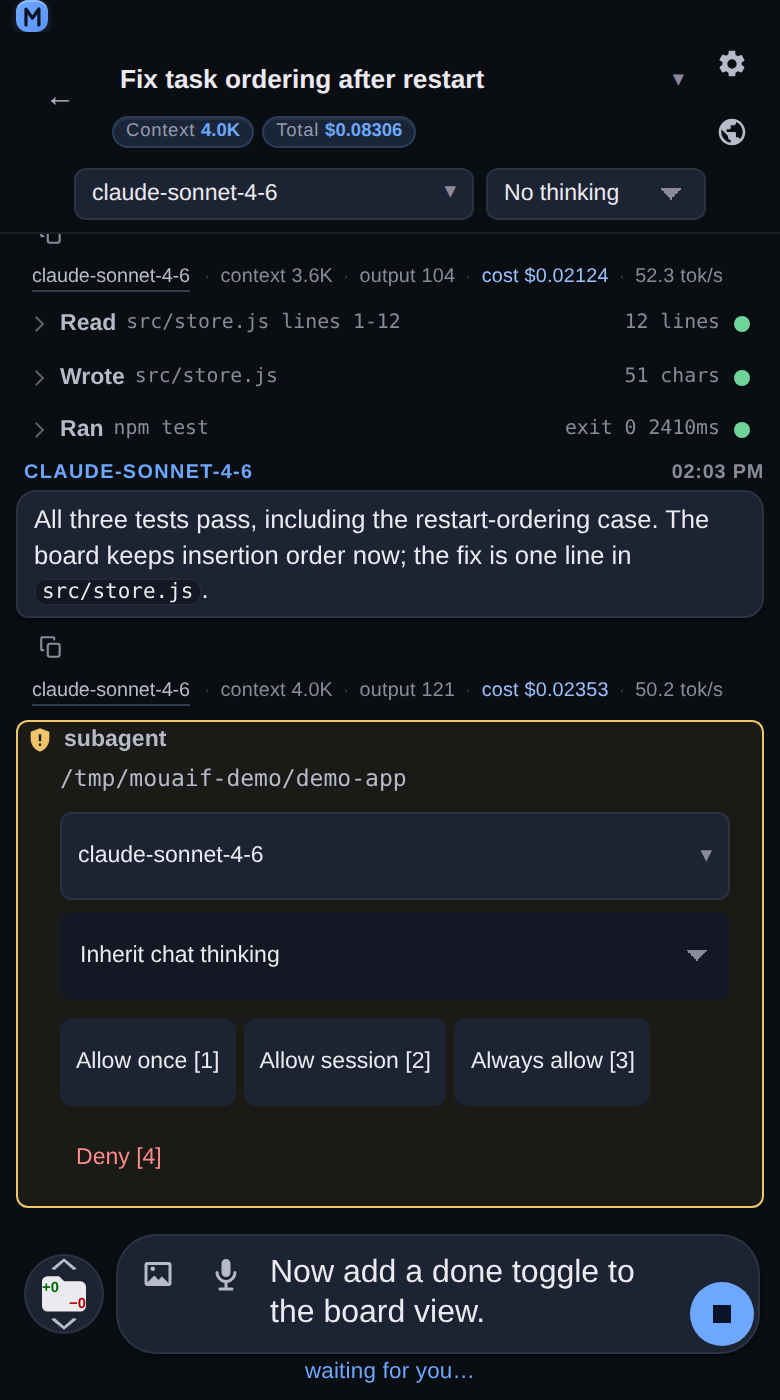
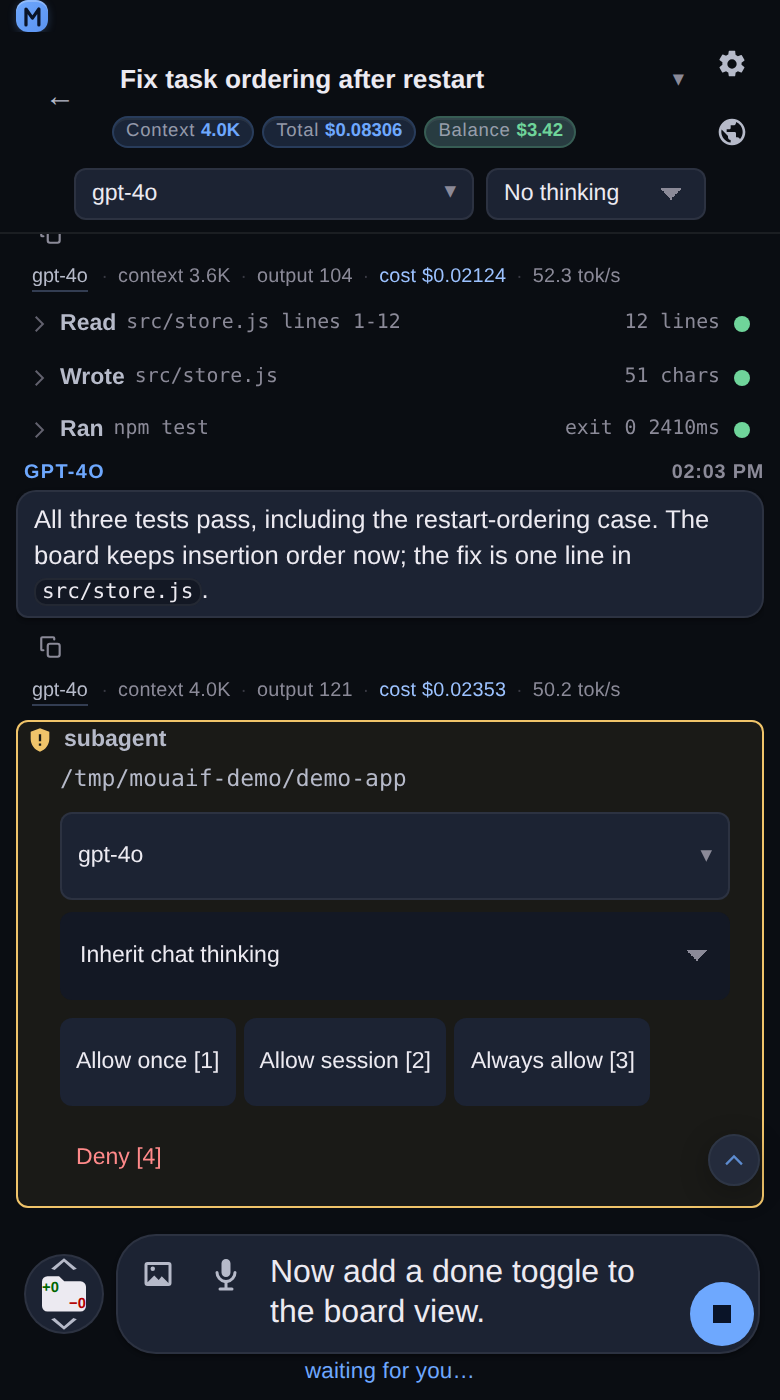
docs: capture the landing chat with the Balance chip
The chat capture showed the model header, and the header's third chip
(Context, Total, Balance) only renders when the connection's provider
can report an account balance. The fixture ran on Anthropic, so the
shot could never show it.

The fixture now runs on an OpenAI-compatible model (gpt-4o, which has a
built-in price, so Total stays a real total) and the capture serves a
local OpenAI-shaped stub that answers both the model list and OpenAI's
billing route. That keeps the docs build off api.openai.com, gives the
chip a reproducible number ($3.42), and shows the row the app really
renders. A preferred port keeps the provider row in providers.png
stable across re-captures.

diff --git a/docs/features/usage-metrics.html b/docs/features/usage-metrics.html
@@ -74,6 +74,11 @@
   &quot;gpt-4o-mini&quot;:        { &quot;inputPer1K&quot;: 0.00015, &quot;outputPer1K&quot;: 0.00060 },
   &quot;claude-3-5-sonnet&quot;:  { &quot;inputPer1K&quot;: 0.00300, &quot;outputPer1K&quot;: 0.01500 }
 }</code></pre>
+<h2 id="account-balance">Account balance</h2>
+<p>Next to <strong>Context</strong> and <strong>Total</strong>, the chat header shows a third chip — <strong>Balance</strong> — with the credit your provider account has left:</p>
+<pre><code class="language-text">Context 14.8K   Total $0.08306   Balance $12.41</code></pre>
+<ul><li><p>If your connection is <strong>OpenRouter</strong>, the balance is the remaining credit of the key you stored, read live from OpenRouter.</p></li><li><p>If your connection is <strong>OpenAI compatible</strong>, <strong>Mistral</strong>, <strong>Groq</strong>, or <strong>DeepSeek</strong>, the balance comes from the provider&#39;s own billing endpoints: prepaid credit when the account has any, otherwise the account&#39;s spending limit minus what it has used.</p></li><li><p>Every other provider, a local OpenAI-compatible server with no key, and a key without billing access simply show no chip. Nothing is guessed, so a chip that is there is a real number.</p>
+<p>The chip is informational: it refreshes when a chat opens and when you switch model or provider, so a long-open chat may show a slightly stale figure.</p></li></ul>
 <h2 id="behavior">Behavior</h2>
 <ul><li><p><strong>Live counter, single turn.</strong> The token/s counter only ticks for the turn that is currently streaming. When a new turn starts, it resets to <code>0</code> and follows the new assistant deltas.</p></li><li><p><strong>Counter formula.</strong> <code>tok/s = completionTokens / streamingMs</code>, measured <strong>per round</strong>. The window starts on the first <code>message</code> <strong>or <code>reasoning</code></strong> delta of a round and stops at that round&#39;s end (<code>assistant_turn_end</code> before a tool call, or <code>done</code>; the last delta before <code>error</code> / <code>EABORTED</code>). Tool runs between rounds are never counted as streaming time, and each round&#39;s window is paired only with that round&#39;s own <code>completionTokens</code> — never the turn total. Sub-second windows are allowed. Thinking deltas feed the counter for the same reason the window spans them: upstream <code>completionTokens</code> include thinking tokens, so dividing them by the answer-only window would over-report tok/s by the think/answer ratio on reasoning-heavy turns.</p></li><li><p><strong>Heuristic while streaming, authoritative on <code>done</code>.</strong> While the turn is in flight the counter estimates ~4 characters per token from the streamed deltas (message + reasoning). When the upstream reports its real <code>completionTokens</code> on <code>done</code>, that count replaces the estimate over the same window — the line snaps to the exact average (including thinking tokens) immediately.</p></li><li><p><strong>Currency is USD only.</strong> The model pricing block is denominated in USD. The format layer respects the user&#39;s locale decimal separator; the currency symbol stays <code>$</code>. A future <code>currency</code> field on the model record could add multi-currency support without breaking the existing shape.</p></li><li><p><strong>Persisted with the message.</strong> Each assistant row (tool-round segments and the final message) stores its round&#39;s <code>streamingMs</code> next to its <code>usage</code>, so the saved speed is <code>usage.completionTokens / streamingMs</code>. The <code>assistant_turn_end</code> and <code>done</code> SSE frames carry the same <code>streamingMs</code>; <code>done</code> also carries <code>roundCompletionTokens</code> (the final round&#39;s output) because its <code>usage</code> is the turn total.</p></li><li><p><strong>Usage block.</strong> The full <code>usage</code> object returned by the AI client is stored on the assistant message record and is also written to the <a href="trace.html">trace file</a> as a <code>done</code> event. Re-opening a chat shows the same numbers that were visible at the time the message was produced.</p></li><li><p><strong>Tool-round segments partition the turn&#39;s cost — never double-counted.</strong> On a multi-round tool turn, each intermediate assistant segment (persisted at <code>assistant_turn_end</code>) carries its own round&#39;s usage and cost. The final assistant message carries only the <strong>remaining</strong> cost: the sum of every round&#39;s real per-round cost minus what the segments already recorded. This matters twice over:</p>
 <ul><li><p>Segment completion tokens are not billed a second time inside the final message (they used to be — the final message previously priced the whole-turn aggregate).</p></li><li><p>Tool rounds where the model produced no assistant text (a pure tool-call round) still contribute their cost — it is folded into the final message&#39;s remainder instead of vanishing from the chat total.<br>  The final message&#39;s <code>usage</code> block shows its own round&#39;s token footprint; the turn aggregate (last-round prompt + all completions) still rides the SSE <code>done</code> event so the live &quot;Context&quot; pill in the chat header shows the full conversation footprint.</p></li></ul></li><li><p><strong>Subagents are included — and billed as they run.</strong> When the model delegates work to the native <code>subagent</code> tool, the nested model call&#39;s cost is resolved with the subagent&#39;s own model and added to the parent chat turn&#39;s final remainder cost. This keeps the header, chat list, and project total aligned with provider billing even when the subagent uses a different model. The streaming layer emits a <code>usage_update</code> SSE event <strong>for every nested round as it finishes</strong> — <code>{ cost: { known, total, currency }, source: &#39;subagent&#39; }</code> carrying that round&#39;s increment — so the header &quot;Total&quot; pill grows while the delegated run is still working instead of jumping when it returns. A subagent that itself uses tools (several billed upstream rounds) therefore updates several times. The nested run&#39;s completion adds only what the round reports did not cover, and the parent <code>done</code> event folds the total into the final segment&#39;s remainder; the client clears its running delta at that point, so nothing is double-counted on reload. The running delta stays in the Total through every head-summary rebuild while the turn is in flight. Tail syncs, reconcile ticks and transcript backfills read it from the active stream (<code>state._liveUsageInfo</code>, resolved by <code>resolveLiveInfo</code> in <code>frontend/src/components/chat/costSummary.js</code>), so the pill no longer dips back to the pre-subagent value between <code>usage_update</code> frames. A delegated run that fails mid-way keeps the cost of the rounds that already finished (those tokens were really billed and are already on screen) without being counted as a priced unit. Direct <code>@agent</code> runs are not streamed: they persist as assistant messages with the same usage/cost metadata and update the header Total immediately.</p></li><li><p><strong>Anthropic prompt-cache tokens are priced at the discounted tiers.</strong> When the <code>usage</code> block carries <code>cacheReadTokens</code> / <code>cacheCreationTokens</code> (Anthropic only), <code>computeCost</code> charges the cached reads at the model&#39;s <code>cacheReadFactor</code> (default 10%) of the input rate, the cache writes at <code>cacheWriteFactor</code> (default 125%), and the remaining uncached prompt tokens at the full input rate — all multiplied by the model&#39;s own <code>inputPer1K</code>. The factors live on the pricing record so a model (or app-level override) can differ from the standard tiers. The <code>input</code> bucket stays the uncached portion so a <code>usage</code> block with no cache fields prices identically to before the feature. See <a href="prompt-caching.html">prompt-caching.md</a>.</p></li><li><p><strong>Pricing is informational.</strong> A wrong <code>pricing</code> entry causes a wrong number on the cost line; it does not affect what the upstream charges. The Settings UI surfaces a &quot;verify with your provider&#39;s pricing page&quot; hint on the pricing fields.</p></li><li><p><strong>A model we offer is a model we can price.</strong> The built-in table is best-effort, and an id nobody recognises legitimately renders <code>--</code>. But the two catalogs this repo <em>writes</em> — Anthropic&#39;s and GitHub Copilot&#39;s, whose providers expose no public list-models endpoint, so <code>src/ai-endpoints.js</code> hand-maintains them — are a different case: if we offer the row, the price is ours to know. That gap had opened once (<code>claude-sonnet-5</code>, <code>claude-opus-4.5</code> and both dated Claude 3.5 snapshots were offered with no entry), which is indistinguishable in the UI from a self-hosted model we cannot know. <a href="https://github.com/GjeloshajAntoine/mouaif/blob/master/scripts/test-model-pricing-coverage.js" target="_blank" rel="noopener noreferrer">scripts/test-model-pricing-coverage.js</a> now fails when a curated catalog id has no built-in price, and cross-checks that the bare and vendor-prefixed (<code>anthropic/&lt;id&gt;</code>) spellings resolve to the same number.</p></li><li><p><strong>A catalog fixture is not a price list.</strong> The OpenRouter catalog snapshot in <code>scripts/fixtures/</code> is a good source for <em>which ids exist</em>, and a poor one for <em>what they cost</em>: it had Haiku 4.5 at <code>$0.8/$4</code>, which is Haiku <strong>3.5</strong>&#39;s rate, and the built-in table had carried that conflation since it was written. Anthropic&#39;s own numbers were therefore read off the live vendor page and are pinned in the test as <code>VENDOR_VERIFIED</code> — a vendor-verified spot check that catches a <em>wrong number</em>, where the fixture-derived coverage check only catches a <em>missing row</em>. Haiku 4.5 is <code>$1/$5</code>; Haiku 3.5 is <code>$0.8/$4</code>; they are different models and now different rows.</p></li></ul>

diff --git a/docs/features/chat-ui.html b/docs/features/chat-ui.html
@@ -43,7 +43,7 @@
 <h2 id="overview">Overview</h2>
 <p>The chat view provides a mobile-first AI conversation interface with real-time streaming, interactive tool execution, markdown formatting, model selection, and token usage tracking.</p>
 <h2 id="interface-structure">Interface structure</h2>
-<ul><li><p><strong>Header bar</strong> — includes the chat switcher to jump between conversations in the same project, the active model picker button, a quick model refresh action, and options to rename, export trace, or delete the chat. The header is a compact two-line bar: the back button, chat title, and usage chips sit on the top line, while the model picker (a text-sized dropdown showing the model id only) and thinking-level select drop to a second line. The two header icons (project-settings gear and tool-popup globe) stack one per line on the right, matching the top line&#39;s height. The head has no vertical padding — vertical rhythm comes only from the flex <code>gap</code> and the bottom border — so there is no visible gap between the app header and the title, and no gap between the usage chips and the model row below.</p></li><li><p><strong>Transcript area</strong> — displays conversational messages with markdown support, expandable system prompt details, inline tool run cards with live execution status, and per-message usage metrics. Every row spans the full width of the transcript&#39;s inner box, so short rows (a one-line <code>Read …</code> card) line up with long ones instead of shrinking and floating; the message bubble inside still hugs its text from that shared left edge, and user bubbles stay right-aligned.</p></li><li><p><strong>Floating composer</strong> — includes actions to attach files or images, an auto-expanding input box, keyboard shortcuts (<code>Enter</code> to send, <code>Shift+Enter</code> for newlines), and a responsive send button.</p></li></ul>
+<ul><li><p><strong>Header bar</strong> — includes the chat switcher to jump between conversations in the same project, the active model picker button, a quick model refresh action, and options to rename, export trace, or delete the chat. The header is a compact two-line bar: the back button, chat title, and usage chips sit on the top line, while the model picker (a text-sized dropdown showing the model id only) and thinking-level select drop to a second line. The usage chips are <strong>Context</strong>, <strong>Total</strong>, and — when the provider reports one — <strong>Balance</strong>, the account&#39;s remaining credit (see <a href="usage-metrics.html#account-balance">Usage metrics</a>). The two header icons (project-settings gear and tool-popup globe) stack one per line on the right, matching the top line&#39;s height. The head has no vertical padding — vertical rhythm comes only from the flex <code>gap</code> and the bottom border — so there is no visible gap between the app header and the title, and no gap between the usage chips and the model row below.</p></li><li><p><strong>Transcript area</strong> — displays conversational messages with markdown support, expandable system prompt details, inline tool run cards with live execution status, and per-message usage metrics. Every row spans the full width of the transcript&#39;s inner box, so short rows (a one-line <code>Read …</code> card) line up with long ones instead of shrinking and floating; the message bubble inside still hugs its text from that shared left edge, and user bubbles stay right-aligned.</p></li><li><p><strong>Floating composer</strong> — includes actions to attach files or images, an auto-expanding input box, keyboard shortcuts (<code>Enter</code> to send, <code>Shift+Enter</code> for newlines), and a responsive send button.</p></li></ul>
 <h2 id="features">Features</h2>
 <h3 id="real-time-streaming-tools">Real-time streaming &amp; tools</h3>
 <ul><li><p><strong>Live streaming</strong> — responses stream in real-time with smooth progressive rendering.</p></li><li><p><strong>Inline tool execution</strong> — tool runs (terminal commands, file changes, agent delegations) show up directly in the transcript with interactive previews and status indicators.</p></li><li><p><strong>Collapsible system prompts</strong> — view the active system prompt, prompt profile, and tool rules at the top of the chat without crowding the conversation.</p></li><li><p><strong>Token &amp; cost visibility</strong> — see context tokens in the header and token speed / per-turn cost under each completed assistant turn.</p></li><li><p><strong>Leaving a chat stops its live reader</strong> — switching chats (or unmounting the view) aborts this client&#39;s <code>fetch</code> for the streaming turn and the read loop stops. The server keeps running the turn, so returning to the chat shows the completed result; what stops is the local reader, which would otherwise keep appending to the transcript of the chat you left and render its deltas into the chat you moved to. A deliberate abort is silent — no error card, no auto-retry, no reconnect poll — and the composer is released immediately. Returning to a running chat follows the active turn, blocks concurrent sends from Enter or the composer while watching, and syncs the completed transcript immediately when the turn ends.</p></li></ul>
@@ -52,7 +52,7 @@
 <h2 id="keyboard-mobile-considerations">Keyboard &amp; Mobile considerations</h2>
 <ul><li><p><strong>Touch-friendly</strong> — the back button is a full <code>--tap</code> (44 px) target that fills a row already that tall, so it costs no layout. The title (<strong>Switch chat</strong>) is a 260 × 32 target: dense-header sizing, like the gear and globe beside it, because the head&#39;s first row is already 66 px tall and a 44 px box around 16 px of text only inserted dead space between the title and the usage chips. The two controls whose box <em>is</em> their target stay at 26 px — the model picker (200 px wide) and the thinking level select (110 px) — because at 44 px they doubled the header height, and the composer keeps its 32 px buttons and 40 px pill for the same reason. See <a href="responsive-layout.html">Responsive layout</a> for the measurements and the <code>.tap-target</code> helper. Scrolling stays smooth on mobile.</p></li><li><p><strong>Virtual keyboard support</strong> — the composer adjusts automatically as the on-screen keyboard opens and closes.</p></li><li><p><strong>Auto-scroll &amp; unpin</strong> — the transcript follows new streaming messages automatically when at the bottom; scrolling up shows the <a href="chat-scroll-nav.html">scroll navigation</a> arrows (previous / next message, bottom). While pinned, it also follows existing rows that expand after rendering, such as tool cards, decoded images, and asynchronously laid-out markdown. Only user input can unpin it: an upward wheel or scroll key, a touch drag (including its momentum), or a pointer press on the transcript. Scrolls the browser makes itself — off-screen rows collapsing to their placeholder height, scroll anchoring, or a streaming reply growing between two frames — keep following, so a long reply no longer runs on below the fold.</p></li><li><p><strong>PWA resume refresh</strong> — returning to an installed PWA reconciles the visible chat immediately, including messages, run state, and pending authorization or question cards received while the app was backgrounded.</p></li></ul>
 <h2 id="related">Related</h2>
-<ul><li><p><a href="model-picker.html">Model picker</a> — browsing and switching AI models.</p></li><li><p><a href="tool-authorization.html">Tool authorization</a> — approving or gating tool execution.</p></li><li><p><a href="usage-metrics.html">Usage metrics</a> — token and cost tracking details.</p></li><li><p><a href="custom-prompts.html">Custom prompts</a> — managing system prompt presets.</p></li></ul>
+<ul><li><p><a href="model-picker.html">Model picker</a> — browsing and switching AI models.</p></li><li><p><a href="tool-authorization.html">Tool authorization</a> — approving or gating tool execution.</p></li><li><p><a href="usage-metrics.html">Usage metrics</a> — token and cost tracking details, and the account Balance chip.</p></li><li><p><a href="custom-prompts.html">Custom prompts</a> — managing system prompt presets.</p></li></ul>
       <div class="footer">Generated from <code>docs/</code> by <code>scripts/build-docs.js</code>. Open an issue on the repo to suggest changes.</div>
     </main>
   </div>

diff --git a/scripts/lib/landing-fixture.js b/scripts/lib/landing-fixture.js
@@ -15,22 +15,40 @@ const CHAT_ID = '1f7c2a90';
 const CHAT_TITLE = 'Fix task ordering after restart';
 
 const PROVIDERS = [
-  { id: 'anthropic', baseUrl: 'https://api.anthropic.com', apiKey: 'sk-ant-demo-not-a-real-key', auth: 'apikey' },
+  // Providers first, models second: a project model names the connection it
+  // runs on, so a connection added afterwards would leave the seeded chats
+  // pointing at a provider the app store does not list.
   { id: 'openai-compatible', baseUrl: 'https://api.openai.com/v1', apiKey: 'sk-demo-not-a-real-key', auth: 'apikey' },
+  { id: 'anthropic', baseUrl: 'https://api.anthropic.com', apiKey: 'sk-ant-demo-not-a-real-key', auth: 'apikey' },
+  { id: 'gemini', baseUrl: 'https://generativelanguage.googleapis.com', apiKey: 'demo-not-a-real-key', auth: 'apikey' },
   { id: 'ollama', baseUrl: 'http://127.0.0.1:11434', auth: 'apikey' },
   { id: 'openrouter', baseUrl: 'https://openrouter.ai/api/v1', apiKey: 'sk-or-demo-not-a-real-key', auth: 'apikey' },
-  { id: 'gemini', baseUrl: 'https://generativelanguage.googleapis.com', apiKey: 'demo-not-a-real-key', auth: 'apikey' },
   { id: 'mistral', baseUrl: 'https://api.mistral.ai/v1', apiKey: 'demo-not-a-real-key', auth: 'apikey' },
   { id: 'groq', baseUrl: 'https://api.groq.com/openai/v1', apiKey: 'gsk-demo-not-a-real-key', auth: 'apikey' }
 ];
 
 const MODELS = [
-  { id: 'claude-sonnet-4-6', provider: 'anthropic', label: 'Claude Sonnet 4.6', contextWindow: 200000 },
-  { id: 'gpt-5.4-mini', provider: 'openai-compatible', label: 'GPT-5.4 mini', contextWindow: 128000 }
+  // The transcript chat runs on the OpenAI-compatible model on purpose: its
+  // provider is the one whose account balance the capture script can serve
+  // from a local stub, so the chat head in the landing capture shows the
+  // Context / Total / Balance row the app really renders. The model id has a
+  // built-in price in src/usage.js (`gpt-4o`) so Total is a real total.
+  { id: 'gpt-4o', provider: 'openai-compatible', label: 'GPT-4o', contextWindow: 128000 },
+  { id: 'claude-sonnet-4-6', provider: 'anthropic', label: 'Claude Sonnet 4.6', contextWindow: 200000 }
 ];
 
-function installProviders(settings) {
-  settings.setApp({ providers: PROVIDERS });
+// installProviders(settings, overrides)
+//
+// Writes the fixture's provider connections. `overrides` maps a provider id to
+// fields that replace the shipped ones — the capture script points the
+// OpenAI-compatible connection at its own local stub, because a docs build must
+// not put a placeholder key on the wire to a third-party endpoint.
+function installProviders(settings, overrides) {
+  const providers = PROVIDERS.map((p) => {
+    const patch = overrides && overrides[p.id];
+    return patch ? Object.assign({}, p, patch) : Object.assign({}, p);
+  });
+  settings.setApp({ providers });
 }
 
 // Chats the project card shows alongside the seeded one. Titles and drafts
@@ -117,14 +135,14 @@ function seedChats(projectDir, chats, messages) {
   const main = chats.createChat(projectDir, { title: CHAT_TITLE });
   for (const row of transcript()) messages.appendMessage(projectDir, main.id, row);
   chats.updateChat(projectDir, main.id, {
-    modelId: 'claude-sonnet-4-6',
-    providerId: 'anthropic',
+    modelId: 'gpt-4o',
+    providerId: 'openai-compatible',
     draft: 'Now add a done toggle to the board view.'
   });
   const empty = chats.createChat(projectDir, { title: 'New chat' });
   chats.updateChat(projectDir, empty.id, {
-    modelId: 'claude-sonnet-4-6',
-    providerId: 'anthropic'
+    modelId: 'gpt-4o',
+    providerId: 'openai-compatible'
   });
   chats.recomputeProjectTotalCost(projectDir);
   return { chatId: main.id, emptyChatId: empty.id };
@@ -184,7 +202,7 @@ function transcript() {
       role: 'assistant',
       content: "I'll read the store first, then check what happens to the order on load.",
       reasoning: 'Two places can reorder: the in-memory Map, and whatever rebuilds it on load. Read the store before changing anything.',
-      usage: usage(3140, 96), cost: cost(0.01571, 0.00288), modelId: 'claude-sonnet-4-6', streamingMs: 1840
+      usage: usage(3140, 96), cost: cost(0.01571, 0.00288), modelId: 'gpt-4o', streamingMs: 1840
     },
     {
       role: 'tool', phase: 'call', toolCallId: 'call_demo_read', name: 'read_file',
@@ -200,7 +218,7 @@ function transcript() {
     {
       role: 'assistant',
       content: 'Tasks live in a `Map`, so the order in memory is insertion order. Something rebuilding that map on load must sort it. Let me find the query.',
-      usage: usage(3412, 88), cost: cost(0.01706, 0.00264), modelId: 'claude-sonnet-4-6', streamingMs: 1520
+      usage: usage(3412, 88), cost: cost(0.01706, 0.00264), modelId: 'gpt-4o', streamingMs: 1520
     },
     {
       role: 'tool', phase: 'call', toolCallId: 'call_demo_search', name: 'search_files',
@@ -220,7 +238,7 @@ function transcript() {
     {
       role: 'assistant',
       content: 'Found it: `src/store.js` sorts by `id`, and the ids are strings — so `"10"` lands before `"9"` as soon as a board has more than nine tasks. I\'ll read that file before changing it.',
-      usage: usage(3624, 104), cost: cost(0.01812, 0.00312), modelId: 'claude-sonnet-4-6', streamingMs: 1990
+      usage: usage(3624, 104), cost: cost(0.01812, 0.00312), modelId: 'gpt-4o', streamingMs: 1990
     },
     {
       role: 'tool', phase: 'call', toolCallId: 'call_demo_read2', name: 'read_file',
@@ -267,7 +285,7 @@ function transcript() {
     {
       role: 'assistant',
       content: 'All three tests pass, including the restart-ordering case. The board keeps insertion order now; the fix is one line in `src/store.js`.',
-      usage: usage(3980, 121), cost: cost(0.01990, 0.00363), modelId: 'claude-sonnet-4-6', streamingMs: 2410
+      usage: usage(3980, 121), cost: cost(0.01990, 0.00363), modelId: 'gpt-4o', streamingMs: 2410
     }
   ];
   return rows.map((row) => ({ ...row, ts: ts() }));

diff --git a/docs/features/docs-site.html b/docs/features/docs-site.html
@@ -52,7 +52,7 @@
 <h2 id="landing-page-screenshots">Landing page screenshots</h2>
 <p>The landing page (<code>index.html</code>) shows eight phone-width captures of the running app, so a reader sees what the app actually does rather than only reading about it. They sit in the <code>#screenshots</code> section as a bare capture row directly under the hero — no heading and no lead paragraph.</p>
 <p>The eight captures, in page order:</p>
-<div class="table-wrap"><table><thead><tr><th>Capture</th><th>What it shows</th></tr></thead><tbody><tr><td><code>chat-tools.png</code></td><td>A brand-new chat — the system-prompt card and the <strong>Tools</strong> card, one checkbox and one <strong>Off / Ask / Allow</strong> control per tool</td></tr><tr><td><code>subagent-auth.png</code></td><td>A <strong>subagent</strong> approval card on a paused run — the delegated task, the per-run model picker and thinking select, and the <strong>Allow once / Allow session / Always allow / Deny</strong> buttons</td></tr><tr><td><code>chats-list.png</code></td><td>The Chats tab — two project cards, each holding its own scrolling chat list and <strong>New chat</strong></td></tr><tr><td><code>chat-view.png</code></td><td>A chat at the end of a run — the model header, per-turn cost lines, and the <strong>Read</strong>, <strong>Searched</strong>, <strong>Wrote</strong> and <strong>Ran</strong> tool cards</td></tr><tr><td><code>providers.png</code></td><td>Settings → Providers — seven connected providers, each naming its endpoint and whether a key is stored</td></tr><tr><td><code>project-settings.png</code></td><td>Project settings — prompt style, then every tool with its own <strong>Off / Ask / Allow</strong> control</td></tr><tr><td><code>inspector.png</code></td><td>The Inspector attached to a page over CDP — target bar, panel chips, live preview, console input</td></tr><tr><td><code>settings.png</code></td><td>The Settings tab — providers first, then the app defaults that apply to every project</td></tr></tbody></table></div>
+<div class="table-wrap"><table><thead><tr><th>Capture</th><th>What it shows</th></tr></thead><tbody><tr><td><code>chat-tools.png</code></td><td>A brand-new chat — the system-prompt card and the <strong>Tools</strong> card, one checkbox and one <strong>Off / Ask / Allow</strong> control per tool</td></tr><tr><td><code>subagent-auth.png</code></td><td>A <strong>subagent</strong> approval card on a paused run — the delegated task, the per-run model picker and thinking select, and the <strong>Allow once / Allow session / Always allow / Deny</strong> buttons</td></tr><tr><td><code>chats-list.png</code></td><td>The Chats tab — two project cards, each holding its own scrolling chat list and <strong>New chat</strong></td></tr><tr><td><code>chat-view.png</code></td><td>A chat at the end of a run — the <strong>Context</strong>, <strong>Total</strong> and <strong>Balance</strong> chips, per-turn cost lines, and the <strong>Read</strong>, <strong>Searched</strong>, <strong>Wrote</strong> and <strong>Ran</strong> tool cards</td></tr><tr><td><code>providers.png</code></td><td>Settings → Providers — seven connected providers, each naming its endpoint and whether a key is stored</td></tr><tr><td><code>project-settings.png</code></td><td>Project settings — prompt style, then every tool with its own <strong>Off / Ask / Allow</strong> control</td></tr><tr><td><code>inspector.png</code></td><td>The Inspector attached to a page over CDP — target bar, panel chips, live preview, console input</td></tr><tr><td><code>settings.png</code></td><td>The Settings tab — providers first, then the app defaults that apply to every project</td></tr></tbody></table></div>
 <p>The images live in the same feature image tree as every other screenshot, so the existing recursive copy ships them:</p>
 <pre><code class="language-text">docs/features/images/landing/
   chat-tools.png         # Empty chat, tools card expanded, 390 × 700 @2x

diff --git a/scripts/lib/capture-fixture.js b/scripts/lib/capture-fixture.js
@@ -226,6 +226,75 @@ function gitInit(dir) {
   } catch { /* a missing git binary must not fail the capture */ }
 }
 
+// ---- The OpenAI-compatible fixture connection ---------------------------
+//
+// The demo project's models run on an OpenAI-compatible connection on purpose.
+// Two things follow, both deliberate:
+//
+//   * the connection points at a local stub that answers the model list and the
+//     OpenAI billing routes, because a docs capture must not put the fixture's
+//     placeholder key on the wire to a real third-party endpoint;
+//   * the stub answers OpenAI's `/dashboard/billing/credit_grants`, so the chat
+//     head's Balance pill (GET /api/ai/provider-credit, see
+//     src/providerCredit.js) has a real number on screen — the same pill the
+//     app renders for a real OpenAI-shaped account. Without it a capture could
+//     only ever show Context and Total.
+//
+// The three figures are fixed so a re-capture is byte-comparable: $20 granted,
+// $16.58 used, $3.42 left.
+const FIXTURE_BALANCE = Object.freeze({
+  total_granted: 20,
+  total_used: 16.58,
+  total_available: 3.42
+});
+
+// listenFixtureUpstream({ models, port }) -> { server, baseUrl }
+//
+// The base URL is the connection's `/v1` root (what a provider row stores); the
+// stub also accepts the same routes without the `/v1` prefix, because the
+// billing lookup asks the origin.
+//
+// `port` is a *preference*, exactly like the Chrome debugging port below: the
+// provider row renders this URL inside the captures, so a stable port keeps a
+// re-capture byte-comparable. When the port is taken, an ephemeral one is used
+// rather than failing the run.
+function listenFixtureUpstream({ models, port = 0 } = {}) {
+  const rows = (models || []).filter((m) => m && m.provider === 'openai-compatible');
+  const server = require('http').createServer((req, res) => {
+    const url = (req.url || '').split('?')[0];
+    const send = (body, status) => {
+      res.writeHead(status || 200, { 'content-type': 'application/json' });
+      res.end(JSON.stringify(body));
+    };
+    if (/^\/(?:v1\/)?dashboard\/billing\/credit_grants$/.test(url)) return send(FIXTURE_BALANCE);
+    if (/^\/(?:v1\/)?models$/.test(url)) {
+      return send({
+        object: 'list',
+        data: rows.map((m) => ({ id: m.id, object: 'model', owned_by: 'openai' }))
+      });
+    }
+    return send({ error: { message: 'the capture fixture answers the model list and billing only' } }, 404);
+  });
+  const listen = (p) => new Promise((resolve, reject) => {
+    const onError = (err) => {
+      server.removeListener('error', onError);
+      reject(err);
+    };
+    server.once('error', onError);
+    server.listen(p, '127.0.0.1', () => {
+      server.removeListener('error', onError);
+      resolve();
+    });
+  });
+  return listen(port).catch((err) => {
+    if (err && err.code === 'EADDRINUSE' && port !== 0) return listen(0);
+    throw err;
+  }).then(() => ({
+    server,
+    baseUrl: 'http://127.0.0.1:' + server.address().port + '/v1'
+  }));
+}
+
 module.exports = {
   findChrome,
   createCdp,
@@ -233,5 +302,7 @@ module.exports = {
   isPortFree,
   freePort,
   writeFixtureProject,
-  gitInit
+  gitInit,
+  FIXTURE_BALANCE,
+  listenFixtureUpstream
 };

diff --git a/scripts/capture-landing-shots.js b/scripts/capture-landing-shots.js
@@ -40,7 +40,7 @@ const OUT_DIR = path.join(ROOT, 'docs/features/images/landing');
 // CDP client, and the throwaway demo project both capture scripts shoot.
 const {
   findChrome, createCdp, waitForFile, isPortFree, freePort,
-  writeFixtureProject, gitInit
+  writeFixtureProject, gitInit, listenFixtureUpstream
 } = require(path.join(ROOT, 'scripts/lib/capture-fixture.js'));
 
 // ---- args ---------------------------------------------------------------
@@ -227,6 +227,19 @@ async function main() {
 
       process.env.MOUAIF_HOME = home;
       process.env.MOUAIF_ALLOW_ANY_ROOT = '1';
+
+      // The OpenAI-compatible connection's endpoint. Started before the app
+      // server so the connection stores its real origin in one pass, and before
+      // any module reads the fixture's model records. Port 8081 first: the
+      // provider row renders this URL in the captures, and a stable port keeps
+      // a re-capture comparable (an ephemeral one is used if 8081 is taken).
+      const upstream = await listenFixtureUpstream({
+      models: require(path.join(ROOT, 'scripts/lib/landing-fixture.js')).MODELS,
+      port: 8081
+      });
+      servers.push(upstream.server);
+      logs.push('fixture upstream on ' + upstream.baseUrl);
+
       const settings = require(path.join(ROOT, 'src/settings.js'));
       const projects = require(path.join(ROOT, 'src/projects.js'));
       const chats = require(path.join(ROOT, 'src/chats.js'));
@@ -242,7 +255,13 @@ async function main() {
       fs.writeFileSync(path.join(secondDir, 'README.md'), '# api-server\n');
       projects.registerProject(secondDir);
       seed.seedSecondProject(secondDir, chats);
-      seed.installProviders(settings);
+      seed.installProviders(settings, {
+      // The fixture's models run on an OpenAI-compatible connection pointed
+      // at this stub, so the chat head's Balance chip is a real answer from a
+      // local server instead of a live billing call to a third party.
+      // See listenFixtureUpstream in scripts/lib/capture-fixture.js.
+      'openai-compatible': { baseUrl: upstream.baseUrl, apiKey: 'sk-demo-not-a-real-key' }
+      });
       seed.installProjectModels(projectDir);
       const seeded = seed.seedChats(projectDir, chats, messages);
       state.chatId = seeded.chatId;

diff --git a/scripts/capture-draft-craft-shots.js b/scripts/capture-draft-craft-shots.js
@@ -32,7 +32,7 @@ const ROOT = path.resolve(__dirname, '..');
 const OUT_DIR = path.join(ROOT, 'docs/features/images/draft-craft');
 const {
   findChrome, createCdp, waitForFile, isPortFree, freePort,
-  writeFixtureProject, gitInit
+  writeFixtureProject, gitInit, listenFixtureUpstream
 } = require(path.join(ROOT, 'scripts/lib/capture-fixture.js'));
 
 const argv = process.argv.slice(2);
@@ -320,6 +320,13 @@ async function main() {
     const messages = require(path.join(ROOT, 'src/messages.js'));
     const seed = require(path.join(ROOT, 'scripts/lib/landing-fixture.js'));
 
+    // The models the capture runs on. Started before the providers are written
+    // so the OpenAI-compatible connection stores this stub's origin — which is
+    // also what makes the chat head's Balance pill answerable locally.
+    const upstream = await listenFixtureUpstream({ models: seed.MODELS, port: 8081 });
+    servers.push(upstream.server);
+    logs.push('fixture upstream on ' + upstream.baseUrl);
+
     settings.runMigrations();
     projects.registerProject(projectDir);
     const secondDir = path.join(tempRoot, 'api-server');
@@ -327,7 +334,9 @@ async function main() {
     fs.writeFileSync(path.join(secondDir, 'README.md'), '# api-server\n');
     projects.registerProject(secondDir);
     seed.seedSecondProject(secondDir, chats);
-    seed.installProviders(settings);
+    seed.installProviders(settings, {
+    'openai-compatible': { baseUrl: upstream.baseUrl, apiKey: 'sk-demo-not-a-real-key' }
+    });
     seed.installProjectModels(projectDir);
     const seeded = seed.seedChats(projectDir, chats, messages);
     state.chatId = seeded.chatId;

diff --git a/docs/index.html b/docs/index.html
@@ -69,8 +69,8 @@ npx mouaif serve --auth-setup</code></pre>
   <figcaption>Chats — projects group their own chats</figcaption>
 </figure>
 <figure class="shot">
-  <div class="shot-fallback">A chat at 390 px: the model header, an assistant turn with its per-turn cost line, and the Read, Searched, Wrote and Ran tool cards above the composer.</div>
-  <img src="features/images/landing/chat-view.png" alt="A chat at 390 px: the model header, an assistant turn with its per-turn cost line, and the Read, Searched, Wrote and Ran tool cards above the composer." loading="lazy" />
+  <div class="shot-fallback">A chat at 390 px: the Context, Total and Balance chips across the header, an assistant turn with its per-turn cost line, and the Read, Searched, Wrote and Ran tool cards above the composer.</div>
+  <img src="features/images/landing/chat-view.png" alt="A chat at 390 px: the Context, Total and Balance chips across the header, an assistant turn with its per-turn cost line, and the Read, Searched, Wrote and Ran tool cards above the composer." loading="lazy" />
   <figcaption>Chats — a run reads, searches, edits and tests</figcaption>
 </figure>
 <figure class="shot">

diff --git a/scripts/build-docs.js b/scripts/build-docs.js
@@ -1327,7 +1327,7 @@ const landingShots = [
   ],
   [
     'features/images/landing/chat-view.png',
-    'A chat at 390 px: the model header, an assistant turn with its per-turn cost line, and the Read, Searched, Wrote and Ran tool cards above the composer.',
+    'A chat at 390 px: the Context, Total and Balance chips across the header, an assistant turn with its per-turn cost line, and the Read, Searched, Wrote and Ran tool cards above the composer.',
     'Chats — a run reads, searches, edits and tests'
   ],
   [

diff --git a/docs/features/docs-site.md b/docs/features/docs-site.md
@@ -37,7 +37,7 @@ The eight captures, in page order:
 | `chat-tools.png` | A brand-new chat — the system-prompt card and the **Tools** card, one checkbox and one **Off / Ask / Allow** control per tool |
 | `subagent-auth.png` | A **subagent** approval card on a paused run — the delegated task, the per-run model picker and thinking select, and the **Allow once / Allow session / Always allow / Deny** buttons |
 | `chats-list.png` | The Chats tab — two project cards, each holding its own scrolling chat list and **New chat** |
-| `chat-view.png` | A chat at the end of a run — the model header, per-turn cost lines, and the **Read**, **Searched**, **Wrote** and **Ran** tool cards |
+| `chat-view.png` | A chat at the end of a run — the **Context**, **Total** and **Balance** chips, per-turn cost lines, and the **Read**, **Searched**, **Wrote** and **Ran** tool cards |
 | `providers.png` | Settings → Providers — seven connected providers, each naming its endpoint and whether a key is stored |
 | `project-settings.png` | Project settings — prompt style, then every tool with its own **Off / Ask / Allow** control |
 | `inspector.png` | The Inspector attached to a page over CDP — target bar, panel chips, live preview, console input |
